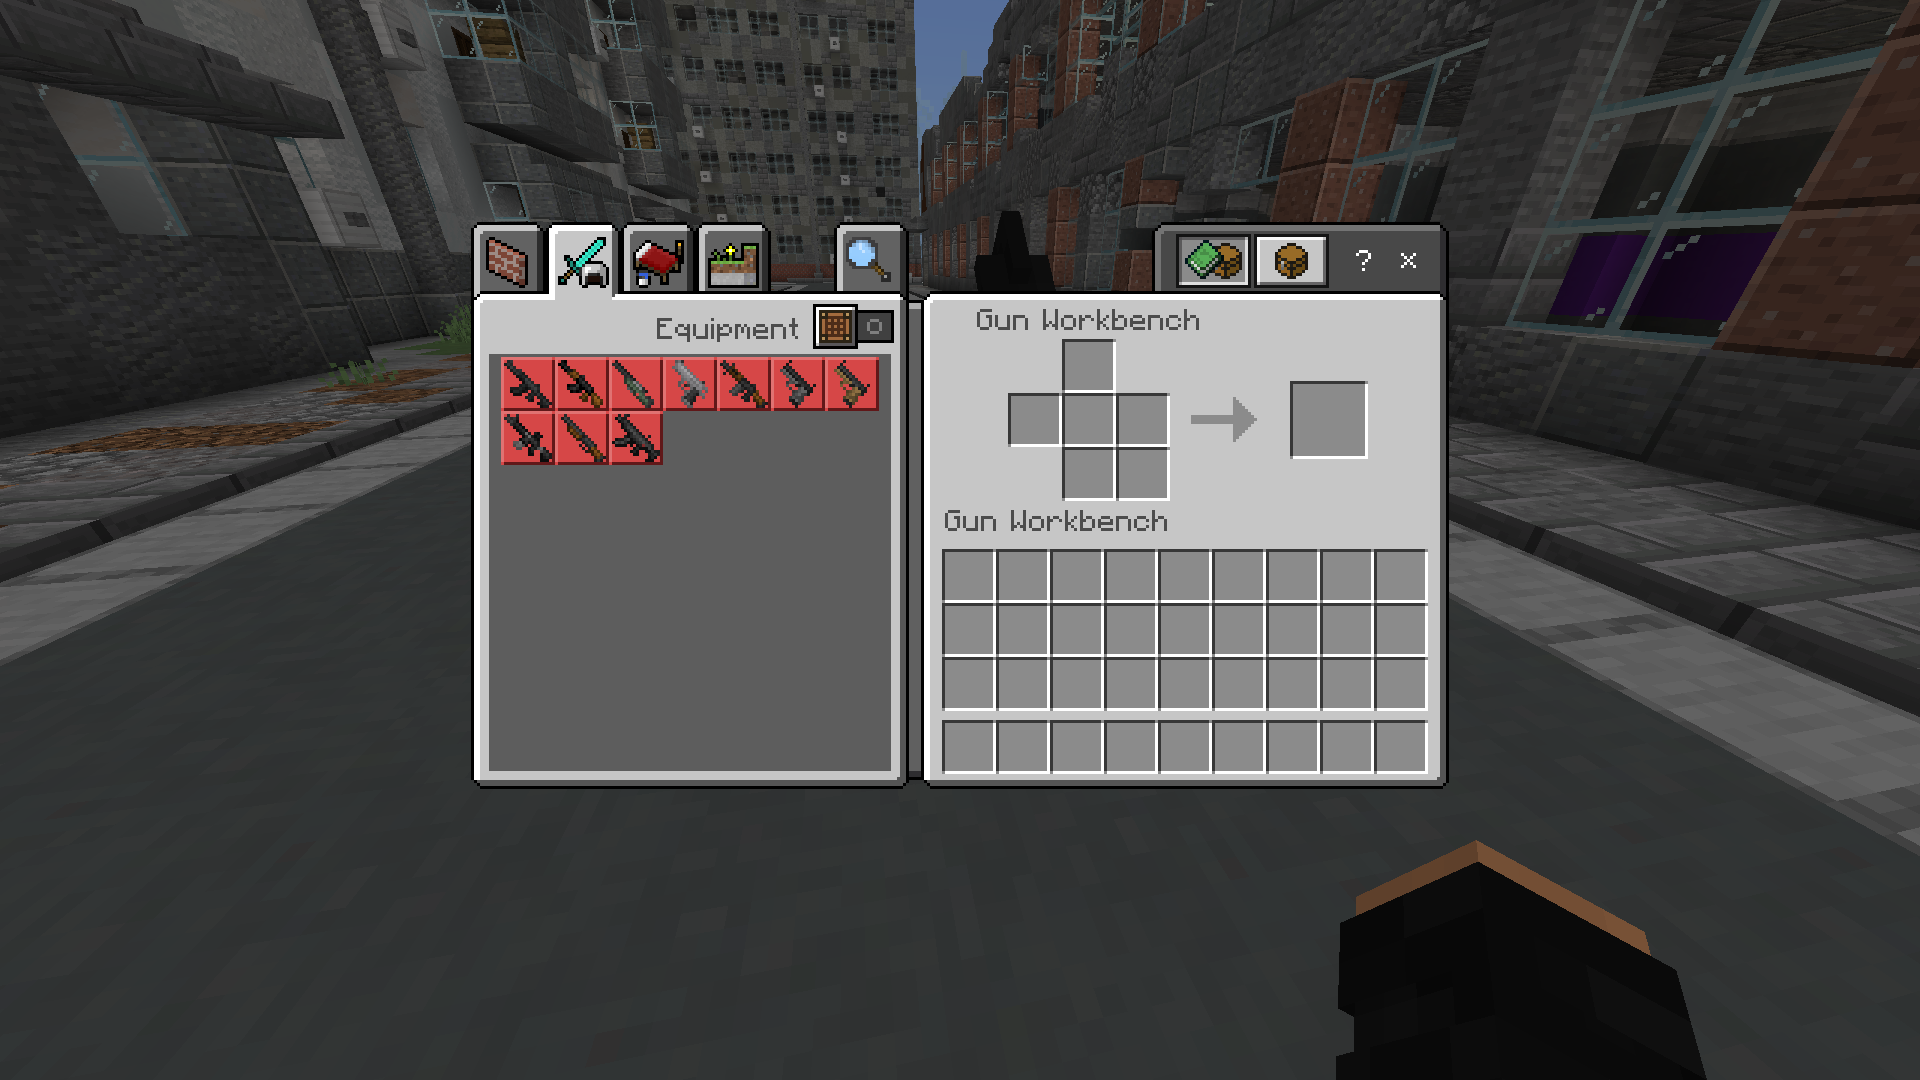
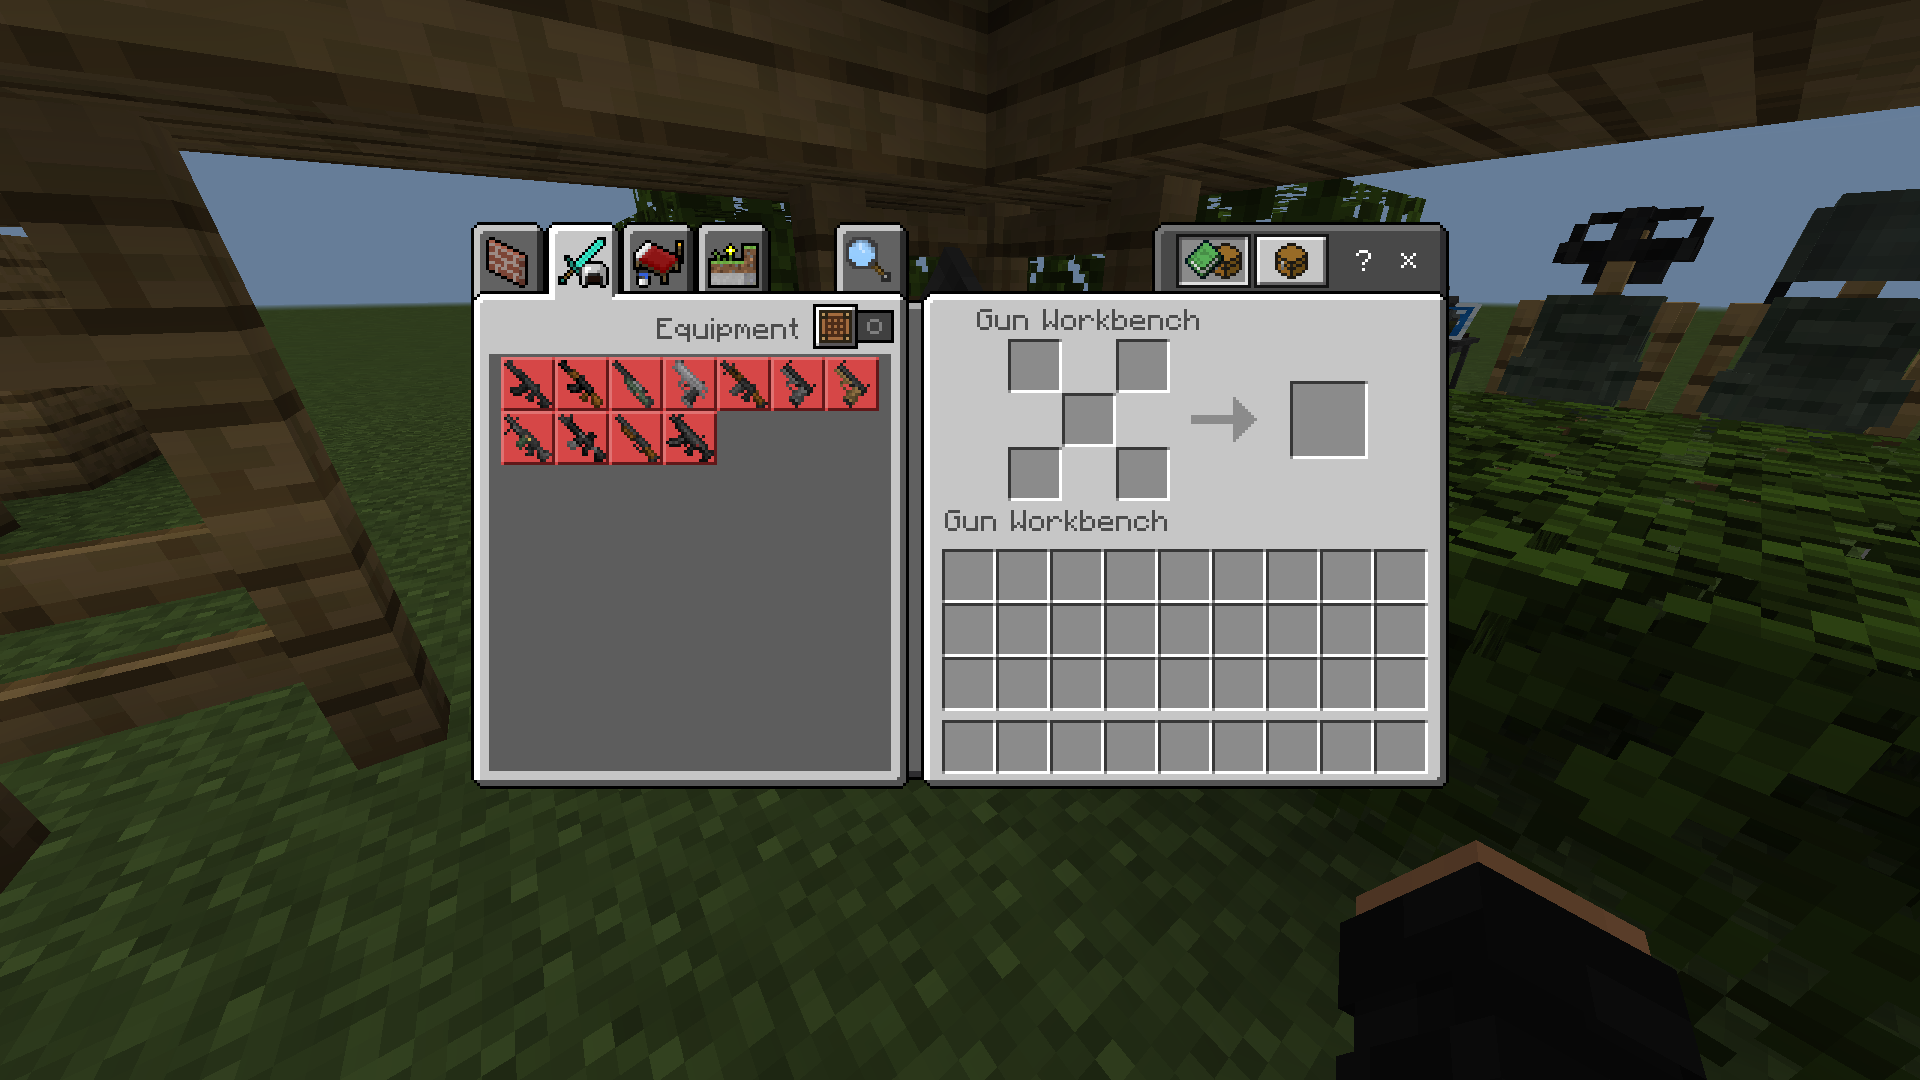
ag 1.1.2

diff --git a/_projects/aplok-guns.md b/_projects/aplok-guns.md
@@ -3,13 +3,13 @@ layout: project
 status: public
 type: mcaddon
 slug: aplok-guns
-title: Aplok Guns Addon | v1.1.1
+title: Aplok Guns Addon | v1.1.2
 banner: /projects/aplok-guns/images/banner.png
 icon: /projects/aplok-guns/images/icon.png
 description: Survival-friendly military-themed add-on with vanilla styled and beautiful guns, satisfying effects, various animations, explosives, custom armor and blocks, and various details that make the difference.
 tags: [aplok-guns, aplok, guns, weapons, military, war, mcpe, mcbe, minecraft, java, mod, addon, gabriel-aplok]
 date: 2022-03-23
-updated: 2024-07-01
+updated: 2024-07-19
 comments_id: 1
 ---
 
@@ -32,7 +32,7 @@ Aplok Guns is an add-on for Minecraft Bedrock that adds vanilla styled military-
 - 🎲 Minecraft vanilla stylized.
 - 🔈 Satisfying sound effects.
 - 👀 Smooth animations from firing to reloading, drawing to running.
-- ⚡ Beautiful and Optimized effects such as muzzle flashes, blood, explosions, lights, bullets solid and water impacts etc.
+- ⚡ Beautiful and Optimized effects such as muzzle flashes, explosions, lights, bullets solid and water impacts etc.
 - 💥 Innovative features, with systems never seen before in Minecraft Bedrock.
 - 👍 Survival-friendly with everything craftable.
 - 🔊 Reverb and distant sound effects.
@@ -40,7 +40,7 @@ Aplok Guns is an add-on for Minecraft Bedrock that adds vanilla styled military-
 
 ## Experimental Gameplay
 
-- Holiday Creator Features [Required].
+- BEta APIs [Required].
 
 ## How to Make Guns
 
@@ -98,6 +98,7 @@ You use the crafting table to create your **Gunmetal Ingot** with **Gunmetal Scr
 ![Gun Screenshot](/projects/{{ page.slug }}/images/screenshot/guns_7.png)
 ![Gun Screenshot](/projects/{{ page.slug }}/images/screenshot/guns_8.png)
 ![Gun Screenshot](/projects/{{ page.slug }}/images/screenshot/guns_9.png)
+![Gun Screenshot](/projects/{{ page.slug }}/images/screenshot/guns_10.png)
 
 ## Armor
 
@@ -115,41 +116,50 @@ Open the **.mcpack** with **Minecraft** and automatically import or extract and 
 
 Just make sure you enable the **experimental settings** Also make sure you have enabled **BOTH** resources and behavior packs when creating the world, and don't use other packs that use **"player.json"** to avoid errors.
 
-## Changelog for v1.1.1
+## Changelog for v1.1.2
 
 > You can access other previous changelogs [here]({{ page.slug }}/changes.html).
 
 ```
-- Ported the core addon engine to 1.21.
-- Added 3D dropped items.
-- Added now you can get magazines in wandering trader and weapon smith villagers.
-- Improved new gun system, more stable and optimized.
-- Improved AK-12 with new model and animations.
-- Improved AK-47 with new model and animations.
-- Improved AWP with new template and animations.
-- Improved Desert Eagle model and animations.
-- Improved FN Fal with new model and animations.
-- Improved Glock 17 and Glock 18 model and animations.
-- Improved M4A1 with new model and animations.
-- Improved Mossberg 500 with new model and animations.
-- Improved HK MP5 A5 with new model and animations.
-- Improved cycled guns system and fixed some issues on it.
-- Improved now attachments are synced with the client (your friends can see your gun attachments).
-- Improved bullet spread when hipfiring, moving or aiming.
-- Improved grenade physics.
-- Changed item ID "desert_eagle" to "deagle".
-- Changed "helmet_military" to "helmet_6b47".
-- Fixed some issues with attachments.
-- Fixed some missing sounds (bullet ricochet and grenade drop).
-- Removed some blocks.
-- Removed HK MP5 A5 foregrip support (temporary).
-- Removed Juggernaut (temporary).
-- Removed magazines crafting (temporary).
+v1.1.2:
+- Added death and kills scoreboard.
+- Added new attachment system.
+- Added new attachment workbench.
+- Added wall collision to guns.
+- Added recline feature to guns.
+- Added headshot for humanoid entities.
+- Added new damage reduction system when using armor or shields.
+- Added now each gun will have its own attachment.
+- Added now you can share your modified gun with your friends and they will have the attachments.
+- Added laser support for pistols.
+- Added Predator V4 Red Dot to pistols.
+- Added new M249 LMG.
+- Added reload when you sneak + attack (without emptying your weapon).
+- Added new parts to make guns.
+- Added sulfur powder.
+- Added petroleum bucket.
+- Added plastic mass and plastic plate.
+- Added new third-person animations to guns.
+- Changed guns recipes.
+- Chnaged gun workbench recipes.
+- Changed some recipes to use plastic material.
+- Changed events to custom components (no need for holiday creator features anymore).
+- Improved client animation controller reduced usage by 30%.
+- Improved hold animation synchronization (arms down) with tpp and multiplayer.
+- Fixed duplicate bullet casing when paperdoll is activated (thanks @GabrielMODguy for the help).
+- Fixed reload issue when you die.
+- Fixed some issues with dropped items.
+- Landmine explosion fixed.
+- Fixed landmine placement sfx.
+- Now fixed the folded sandbag that dropped two items instead of one.
+- Removed 3D drop item.
 ```
 
 If you plan to showcase this add-on, **ONLY use the links I provide here**. DON’T create your own links and/or claim this as your own creation. Thank you!
 
 This will **ONLY** work in Minecraft version **1.21** or higher and don't use Beta/Preview Edition.
+
+This addon uses Beta APIs, if your guns do no damage or attachments are not working, make sure you are using the correct version of Minecraft and enable the beta apis option.
 
 ## Downloads
 
@@ -167,3 +177,4 @@ This will **ONLY** work in Minecraft version **1.21** or higher and don't use Be
 
 <span class="tag">1.21.0</span>
 <span class="tag">1.21.1</span>
+<span class="tag">1.21.2</span>

diff --git a/_projects/aplok-guns/changes.md b/_projects/aplok-guns/changes.md
@@ -3,13 +3,46 @@ layout: default
 title: Aplok Guns - 1.1.1
 ---
 
-# Aplok Guns - 1.1.1
+# Aplok Guns - 1.1.2
 
-**Posted:** 01 July 2024
+**Posted:** 19 July 2024
 
 ## Info on the Aplok Guns:
 - These work-in-progress versions can be unstable and may not be representative of final version quality.
 - Aplok Guns is available on MCPEDL.COM, MODBAY.ORG, and MY WEBSITE. More info can be found at [here]({{ '/projects/aplok-guns.html' | absolute_url }}).
+
+## v1.1.2:
+- Added death and kills scoreboard.
+- Added new attachment system.
+- Added new attachment workbench.
+- Added wall collision to guns.
+- Added recline feature to guns.
+- Added headshot for humanoid entities.
+- Added new damage reduction system when using armor or shields.
+- Added now each gun will have its own attachment.
+- Added now you can share your modified gun with your friends and they will have the attachments.
+- Added laser support for pistols.
+- Added Predator V4 Red Dot to pistols.
+- Added new M249 LMG.
+- Added reload when you sneak + attack (without emptying your weapon).
+- Added new parts to make guns.
+- Added sulfur powder.
+- Added petroleum bucket.
+- Added plastic mass and plastic plate.
+- Added new third-person animations to guns.
+- Changed guns recipes.
+- Chnaged gun workbench recipes.
+- Changed some recipes to use plastic material.
+- Changed events to custom components (no need for holiday creator features anymore).
+- Improved client animation controller reduced usage by 30%.
+- Improved hold animation synchronization (arms down) with tpp and multiplayer.
+- Fixed duplicate bullet casing when paperdoll is activated (thanks @GabrielMODguy for the help).
+- Fixed reload issue when you die.
+- Fixed some issues with dropped items.
+- Landmine explosion fixed.
+- Fixed landmine placement sfx.
+- Now fixed the folded sandbag that dropped two items instead of one.
+- Removed 3D drop item.
 
 ## v1.1.1:
 - Ported the core addon engine to 1.21.
